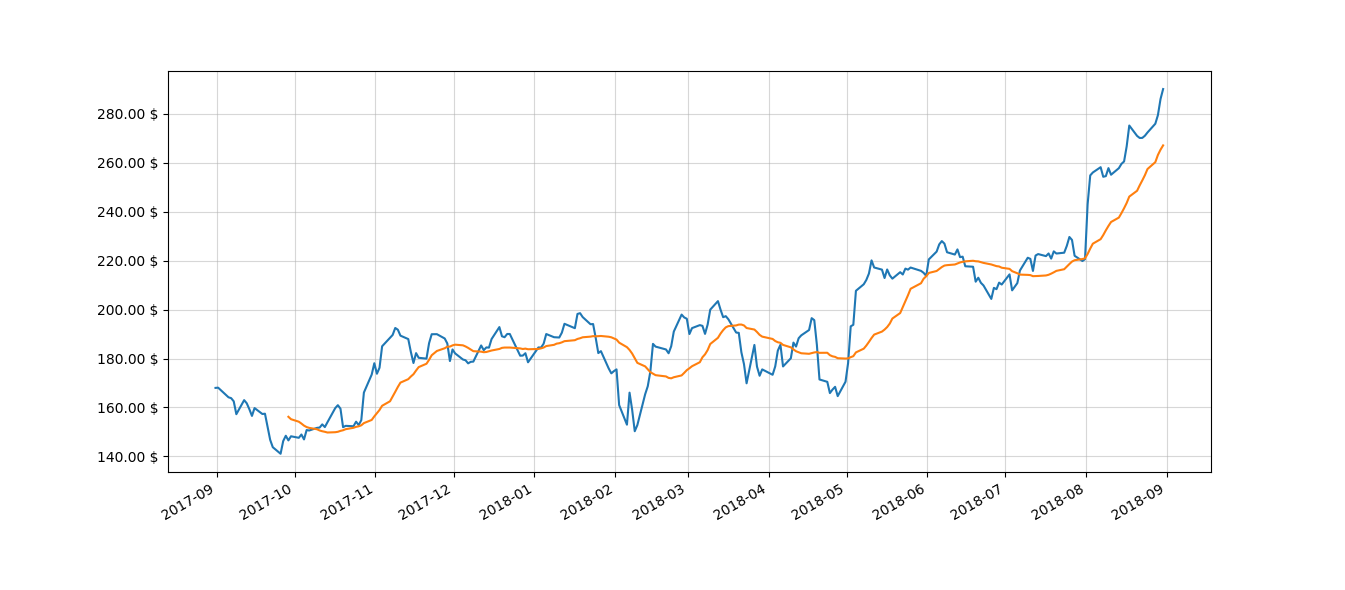
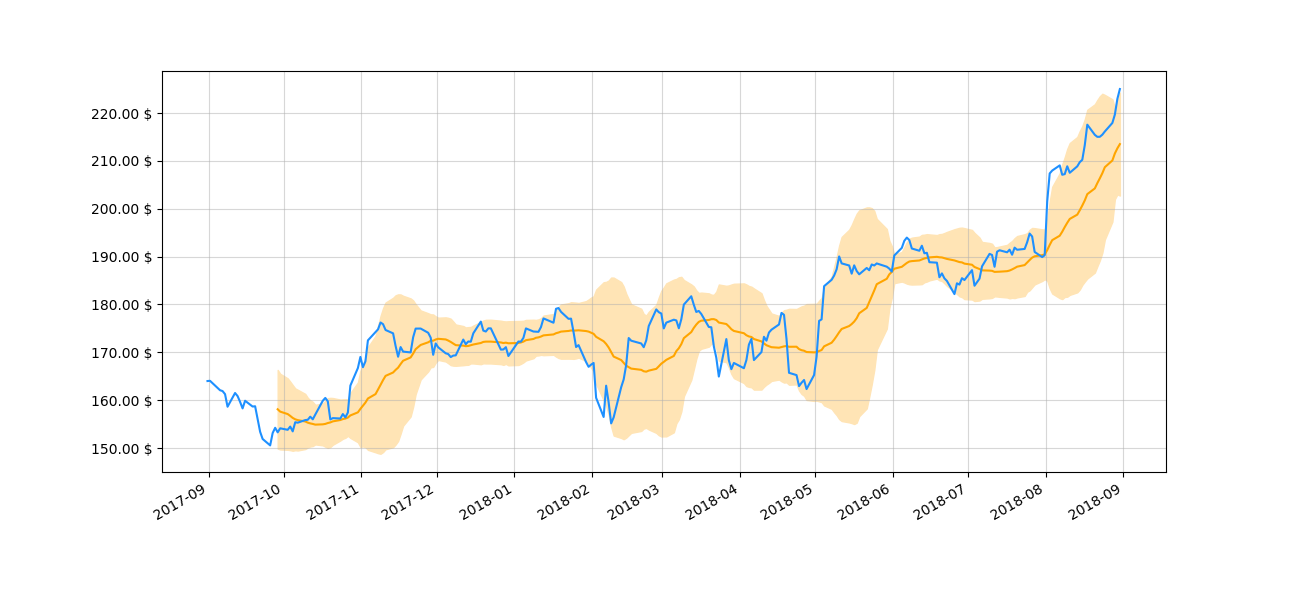
update

diff --git a/examples/getting_price.py b/examples/getting_price.py
@@ -7,12 +7,13 @@
 # In particular, we will download the timeseries of APPLE close daily price from 2017-09-1 to 2018-08-31,
 # and then will plot them using the matplotlib package.
 # In order to illustrate the implementation of pandas.DataFrame within the YahooFinancePynterface, 
-# we will plot the 20-periods simple moving avarege on the same figure.
+# we will plot the 20-periods Bollinger bands on the same figure.
 #
 
 import yahoo_finance_pynterface as yahoo
 import matplotlib.pyplot        as plt
 import matplotlib.dates         as mdates
+import matplotlib.ticker        as mticker
 
 if __name__ == '__main__':
 
@@ -20,13 +21,17 @@ if __name__ == '__main__':
     
     r = yahoo.Get.Prices("AAPL", period=['2017-09-1','2018-08-31']);
     if r is not None:
-        plt.plot(r.index.values, r['Close']);
-        plt.plot(r.index.values, r['Close'].rolling(20).mean());
+        mu = r.Close.rolling(20).mean()
+        sigma = r.Close.rolling(20).std()
+        plt.fill_between(r.index.values,mu+2*sigma,mu-2*sigma, color='moccasin');
+        plt.plot(r.index.values, mu, color='orange');
+        plt.plot(r.index.values, r.Close, color='dodgerblue');
         ax.grid(True, alpha=0.5);
-        ax.set_yticklabels([f"{i*20}.00 $" for i in range(6,15)]);
-        ax.xaxis.set_major_locator(mdates.MonthLocator());
-        ax.xaxis.set_major_formatter(mdates.DateFormatter('%Y-%m'));
-        print(r['Close']);
+        ax.xaxis.set_major_locator(mdates.MonthLocator(bymonthday=1));
+        ax.xaxis.set_major_formatter(mdates.DateFormatter('%Y-%m'));     
+        ax.yaxis.set_major_locator(mticker.FixedLocator(range(100,300,10)))
+        ax.yaxis.set_major_formatter(mticker.FuncFormatter(lambda x,pos: f"{x}.00 $"))
+        print(r.Close);
     else:
         print("something odd happened o.O");
     
